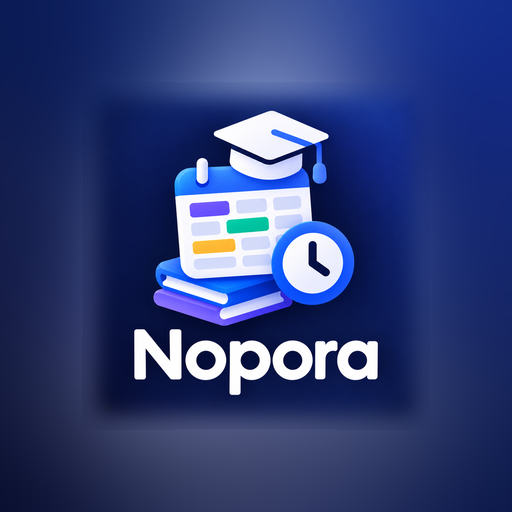
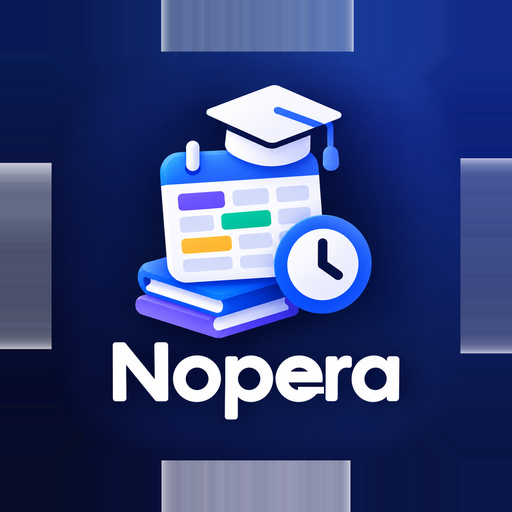
Add files via upload

diff --git a/index.html b/index.html
@@ -1,7 +1,7 @@
 <!DOCTYPE html>
 <html lang="ro"><head><meta charset="utf-8">
 <meta name="viewport" content="width=device-width, initial-scale=1, viewport-fit=cover">
-<title>Nopora</title><meta name="apple-mobile-web-app-capable" content="yes"><meta name="apple-mobile-web-app-title" content="Nopora"><meta name="theme-color" content="#4f46e5"><link rel="apple-touch-icon" href="icon-180.png"><link rel="icon" type="image/png" sizes="192x192" href="icon-192.png"><link rel="manifest" href="manifest.json"><meta name="mobile-web-app-capable" content="yes">
+<title>Nopera</title><meta name="apple-mobile-web-app-capable" content="yes"><meta name="apple-mobile-web-app-title" content="Nopera"><meta name="theme-color" content="#4f46e5"><link rel="apple-touch-icon" href="icon-180.png"><link rel="icon" type="image/png" sizes="192x192" href="icon-192.png"><link rel="manifest" href="manifest.json"><meta name="mobile-web-app-capable" content="yes">
 <style>
 :root{--bg:#f6f7fb;--cd:#fff;--tx:#1b1d29;--mu:#6b7080;--ac:#4f46e5;--ok:#16a34a;--no:#dc2626;--bd:#e3e5ee;box-sizing:border-box;padding-top:env(safe-area-inset-top,0px);padding-bottom:env(safe-area-inset-bottom,0px)}
 @media (prefers-color-scheme:dark){:root:not([data-theme="light"]){--bg:#12131a;--cd:#1c1e29;--tx:#eceef6;--mu:#9a9fb2;--ac:#8b85ff;--ok:#4ade80;--no:#f87171;--bd:#2c2f3f}}
@@ -60,6 +60,7 @@ button{font:inherit;color:var(--tx);background:var(--cd);border:1px solid var(--
 
 .pw{position:relative;margin-bottom:8px}.pw .fi{margin:0;padding-right:84px}.pw .eye{position:absolute;right:6px;top:50%;transform:translateY(-50%);background:transparent;border:0;color:var(--ac);font-size:13px;font-weight:700;padding:8px}
 #ins{display:flex;position:fixed;inset:0;z-index:12;background:#000b;padding:20px;overflow:auto}#ins.hide{display:none}#ins ol{margin:0;padding-left:20px}#ins li{margin:0 0 9px}
+a{color:var(--ac)}
 #vf{display:flex;position:fixed;inset:0;z-index:11;background:var(--bg);padding:20px;overflow:auto}#vf.hide{display:none}
 #nbe{display:flex;flex-direction:column;position:fixed;inset:0;z-index:8;background:var(--bg)}#nbe.hide{display:none}
 .ned{min-height:100%;padding:16px;outline:none;font-size:17px;line-height:1.6;background:var(--cd);color:var(--tx);max-width:820px;margin:0 auto}
@@ -75,18 +76,18 @@ button{font:inherit;color:var(--tx);background:var(--cd);border:1px solid var(--
 #glb,#gpm{display:flex;flex-direction:column;position:fixed;inset:0;z-index:10;background:#000d;padding:calc(12px + env(safe-area-inset-top,0px)) 12px 12px;overflow:auto}
 #glb.hide,#gpm.hide{display:none}
 [data-theme="halloween"] .gm.me{color:#1b0f2a}
-</style></head><body><div id="ov" style="position:fixed;inset:0;z-index:9;background:var(--bg);padding:20px;overflow:auto"><div class="c" style="width:100%;max-width:380px;margin:auto"><div class="b" style="font-size:20px">📚 Nopora</div><div class="mu" id="ovt" style="margin:6px 0 10px">Intră sau creează cont (email + parolă).</div>
+</style></head><body><div id="ov" style="position:fixed;inset:0;z-index:9;background:var(--bg);padding:20px;overflow:auto"><div class="c" style="width:100%;max-width:380px;margin:auto"><div class="b" style="font-size:20px">📚 Nopera</div><div class="mu" id="ovt" style="margin:6px 0 10px">Intră sau creează cont (email + parolă).</div>
 <button id="gg" type="button" style="width:100%;display:flex;align-items:center;justify-content:center;gap:10px;background:#fff;color:#1f1f1f;border:1px solid #dadce0;font-weight:600;margin-bottom:10px"><svg width="18" height="18" viewBox="0 0 48 48" aria-hidden="true"><path fill="#EA4335" d="M24 9.5c3.5 0 6.6 1.2 9.1 3.5l6.8-6.8C35.8 2.4 30.3 0 24 0 14.6 0 6.5 5.4 2.6 13.2l7.9 6.1C12.4 13.6 17.7 9.5 24 9.5z"/><path fill="#4285F4" d="M46.1 24.5c0-1.6-.1-3.1-.4-4.5H24v9h12.4c-.5 2.9-2.2 5.3-4.7 6.9l7.3 5.7c4.3-4 6.8-9.9 6.8-17.1z"/><path fill="#FBBC05" d="M10.5 28.7c-.5-1.4-.8-2.9-.8-4.7s.3-3.3.8-4.7l-7.9-6.1C.9 16.4 0 20.1 0 24s.9 7.6 2.6 10.8l7.9-6.1z"/><path fill="#34A853" d="M24 48c6.3 0 11.6-2.1 15.5-5.7l-7.3-5.7c-2 1.4-4.7 2.3-8.2 2.3-6.3 0-11.6-4.1-13.5-9.8l-7.9 6.1C6.5 42.6 14.6 48 24 48z"/></svg>Continuă cu Google</button><div class="mu" style="text-align:center;margin:0 0 10px">sau cu email și parolă</div><input id="an" maxlength="24" placeholder="Numele tău" class="fi hide"><input id="au" type="email" placeholder="Email" autocapitalize="none" autocomplete="email" class="fi"><div class="pw"><input id="ap" type="password" placeholder="Parolă (minim 6 caractere)" autocomplete="current-password" class="fi"><button type="button" class="eye" data-eye aria-label="Arată sau ascunde parola">Arată</button></div><div class="pw hide" id="ap2w"><input id="ap2" type="password" placeholder="Repetă parola" autocomplete="new-password" class="fi"></div><div id="er" class="mu" style="color:var(--no);min-height:18px"></div><div class="mu" id="fgd" style="margin:-4px 0 10px"><a href="#" id="fg">Ai uitat parola?</a></div><label class="mu" style="display:flex;gap:8px;align-items:center;margin:0 0 10px"><input type="checkbox" id="rm" checked style="width:auto;margin:0"> Ține-mă minte pe acest dispozitiv</label><div class="r"><button id="lg" class="on">Intră</button><button id="rg">Cont nou</button></div>
 <div style="text-align:center;margin-top:12px"><a href="#" id="lins">📲 Cum pun aplicația pe ecran?</a></div></div></div><div id="hw" aria-hidden="true"><span class="b1">🦇</span><span class="b2">🦇</span><span class="b3">🦇</span><span class="g">👻</span><span class="w">🕸</span></div>
 <div id="ins" class="hide"><div class="c" style="width:100%;max-width:420px;margin:auto">
-<div class="r" style="align-items:center;margin:0 0 8px"><div class="b" style="font-size:18px;flex:1">📲 Pune Nopora pe ecran</div><button id="insx" style="flex:0 0 auto">✕</button></div>
+<div class="r" style="align-items:center;margin:0 0 8px"><div class="b" style="font-size:18px;flex:1">📲 Pune Nopera pe ecran</div><button id="insx" style="flex:0 0 auto">✕</button></div>
 <div class="mu" style="margin-bottom:10px">Așa o deschizi dintr-o atingere, ca pe o aplicație, fără bara browserului.</div>
 <div class="r" style="margin-bottom:12px"><button id="ti">iPhone</button><button id="ta">Android</button></div>
 <div id="insb"></div>
 <div class="mu" style="margin-top:12px">💡 Dacă ai deschis linkul din WhatsApp, Instagram sau Facebook, deschide-l mai întâi în browser (meniul ⋯ sau ⋮ → „Deschide în Safari/Chrome"). Altfel opțiunea de adăugare nu apare.</div>
 </div></div>
 <main>
-<h1>📚 Nopora</h1>
+<h1>📚 Nopera</h1>
 <div class="mu" id="me">Se conectează…</div>
 <div class="c" id="par" style="margin-top:8px;border-left:5px solid var(--ac)"></div>
 <div class="tabs" style="margin-top:8px"><button data-t="a" class="on">Acum</button><button data-t="ann" id="tan">Anunțuri</button><button data-t="s">Săptămâna</button><button data-t="r">Recuperări</button><button data-t="nbk">Caiete</button><button data-t="o">Colegi</button><button data-t="grpc" id="tgr">Grup</button><button data-t="g" id="tg">Mesaje</button><button data-t="p">Profil</button><button data-t="m" id="tm" class="hide">Admin</button></div>
@@ -192,7 +193,7 @@ const T=[[1,'8:00','9:50',P,'LAB','JK103',NE,'b'],[1,'10:00','11:50',PM,'SEM','J
 [5,'10:00','11:50',AL,'CURS','JA101',SE,'b'],[5,'14:00','15:50',LM,'SEM','JA101','','i'],[5,'14:00','15:50',CO,'CURS','JA101',CD,'p'],[5,'16:00','17:50',PS,'SEM','JA101',HS,'b']];
 const DN=['Duminică','Luni','Marți','Miercuri','Joi','Vineri','Sâmbătă'],$=id=>document.getElementById(id);
 function setHw(on){const r=document.documentElement;if(on)r.setAttribute('data-theme','halloween');else r.removeAttribute('data-theme');
- document.querySelectorAll('h1,#ov .b').forEach(el=>{if(/Nopora$/.test(el.textContent))el.textContent=(on?'🎃 ':'📚 ')+'Nopora'});
+ document.querySelectorAll('h1,#ov .b').forEach(el=>{if(/Nopera$/.test(el.textContent))el.textContent=(on?'🎃 ':'📚 ')+'Nopera'});
  const m=document.querySelector('meta[name="theme-color"]');if(m)m.setAttribute('content',on?'#120a1c':'#4f46e5')}
 let hw;{const d=new Date(),def=d.getMonth()===9||(d.getMonth()===10&&d.getDate()<=2);try{const v=localStorage.getItem('hw');hw=v===null?def:v==='1'}catch(e){hw=def}}
 setHw(hw);$('hwt').checked=hw;$('hwt').onchange=e=>{hw=e.target.checked;try{localStorage.setItem('hw',hw?'1':'0')}catch(x){}setHw(hw)};
@@ -576,12 +577,12 @@ const isStandalone=()=>(window.matchMedia&&window.matchMedia('(display-mode: sta
  isMobile=()=>/android|iphone|ipad|ipod/i.test(navigator.userAgent)||(navigator.maxTouchPoints>1&&innerWidth<900),
  detOS=()=>/android/i.test(navigator.userAgent)?'and':'ios',
  SHARE='<svg width="18" height="18" viewBox="0 0 24 24" fill="none" stroke="currentColor" stroke-width="2" stroke-linecap="round" stroke-linejoin="round" style="vertical-align:-3px"><path d="M12 15V3M8 7l4-4 4 4M5 11v9h14v-9"/></svg>',
- STEPS={ios:['Deschide linkul în <b>Safari</b> (merge și din Chrome, dar Safari e cel mai sigur).','Atinge butonul <b>Partajează</b> '+SHARE+' (jos, la mijloc). La unele versiuni e în meniul <b>⋯</b>, jos în dreapta.','Derulează și alege <b>„Adaugă pe ecranul principal”</b> (Add to Home Screen).','Lasă pornit „Deschide ca aplicație web”, dacă apare, și atinge <b>Adaugă</b>.','Deschide Nopora din pictograma nouă de pe ecranul principal.'],
-  and:['Deschide linkul în <b>Chrome</b>.','Atinge meniul <b>⋮</b> (sus, în dreapta).','Alege <b>„Adaugă pe ecranul principal”</b> sau <b>„Instalează aplicația”</b>.','Confirmă cu <b>Adaugă</b> sau <b>Instalează</b>.','Deschide Nopora din pictograma nouă de pe ecran. <span class="mu">(Samsung Internet: ☰ → „Adaugă pagina la” → „Ecran principal”.)</span>']};
+ STEPS={ios:['Deschide linkul în <b>Safari</b> (merge și din Chrome, dar Safari e cel mai sigur).','Atinge butonul <b>Partajează</b> '+SHARE+' (jos, la mijloc). La unele versiuni e în meniul <b>⋯</b>, jos în dreapta.','Derulează și alege <b>„Adaugă pe ecranul principal”</b> (Add to Home Screen).','Lasă pornit „Deschide ca aplicație web”, dacă apare, și atinge <b>Adaugă</b>.','Deschide Nopera din pictograma nouă de pe ecranul principal.'],
+  and:['Deschide linkul în <b>Chrome</b>.','Atinge meniul <b>⋮</b> (sus, în dreapta).','Alege <b>„Adaugă pe ecranul principal”</b> sau <b>„Instalează aplicația”</b>.','Confirmă cu <b>Adaugă</b> sau <b>Instalează</b>.','Deschide Nopera din pictograma nouă de pe ecran. <span class="mu">(Samsung Internet: ☰ → „Adaugă pagina la” → „Ecran principal”.)</span>']};
 function setOS(os){$('ti').classList.toggle('on',os==='ios');$('ta').classList.toggle('on',os==='and');$('insb').innerHTML='<ol>'+STEPS[os].map(x=>'<li>'+x+'</li>').join('')+'</ol>'}
 function showIns(os){$('ins').classList.remove('hide');setOS(os||detOS())}
 function renIn(){const el=$('inb');if(!el)return;let dis=false;try{dis=localStorage.getItem('inDis')==='1'}catch(e){}
- el.innerHTML=(uid&&isMobile()&&!isStandalone()&&!dis)?'<div class="c now" style="display:flex;gap:10px;align-items:center"><div style="font-size:26px">📲</div><div style="flex:1"><div class="b">Pune Nopora pe ecran</div><div class="mu">Se deschide dintr-o atingere, ca o aplicație.</div></div><div style="display:flex;flex-direction:column;gap:6px"><button data-inh class="on" style="padding:6px 12px">Cum?</button><button data-ind style="padding:6px 12px">Nu acum</button></div></div>':''}
+ el.innerHTML=(uid&&isMobile()&&!isStandalone()&&!dis)?'<div class="c now" style="display:flex;gap:10px;align-items:center"><div style="font-size:26px">📲</div><div style="flex:1"><div class="b">Pune Nopera pe ecran</div><div class="mu">Se deschide dintr-o atingere, ca o aplicație.</div></div><div style="display:flex;flex-direction:column;gap:6px"><button data-inh class="on" style="padding:6px 12px">Cum?</button><button data-ind style="padding:6px 12px">Nu acum</button></div></div>':''}
 $('ti').onclick=()=>setOS('ios');$('ta').onclick=()=>setOS('and');$('insx').onclick=()=>$('ins').classList.add('hide');
 document.addEventListener('click',e=>{if(e.target.id==='ins'){$('ins').classList.add('hide');return}if(e.target.id==='lins'){e.preventDefault();showIns();return}if(e.target.id==='pins'){showIns();return}if(e.target.closest('[data-inh]')){showIns();return}if(e.target.closest('[data-ind]')){try{localStorage.setItem('inDis','1')}catch(x){}renIn()}});
 function pres(){if(!uid||document.hidden)return;const n=new Date(),o=occ(0).find(o=>start(o)<=n&&n<end(o));setDoc(doc(fs,'presence',uid),{name:myName,g:myGroup,now:o?o.c[3]:'Liber',t:Date.now()}).catch(()=>{})}
